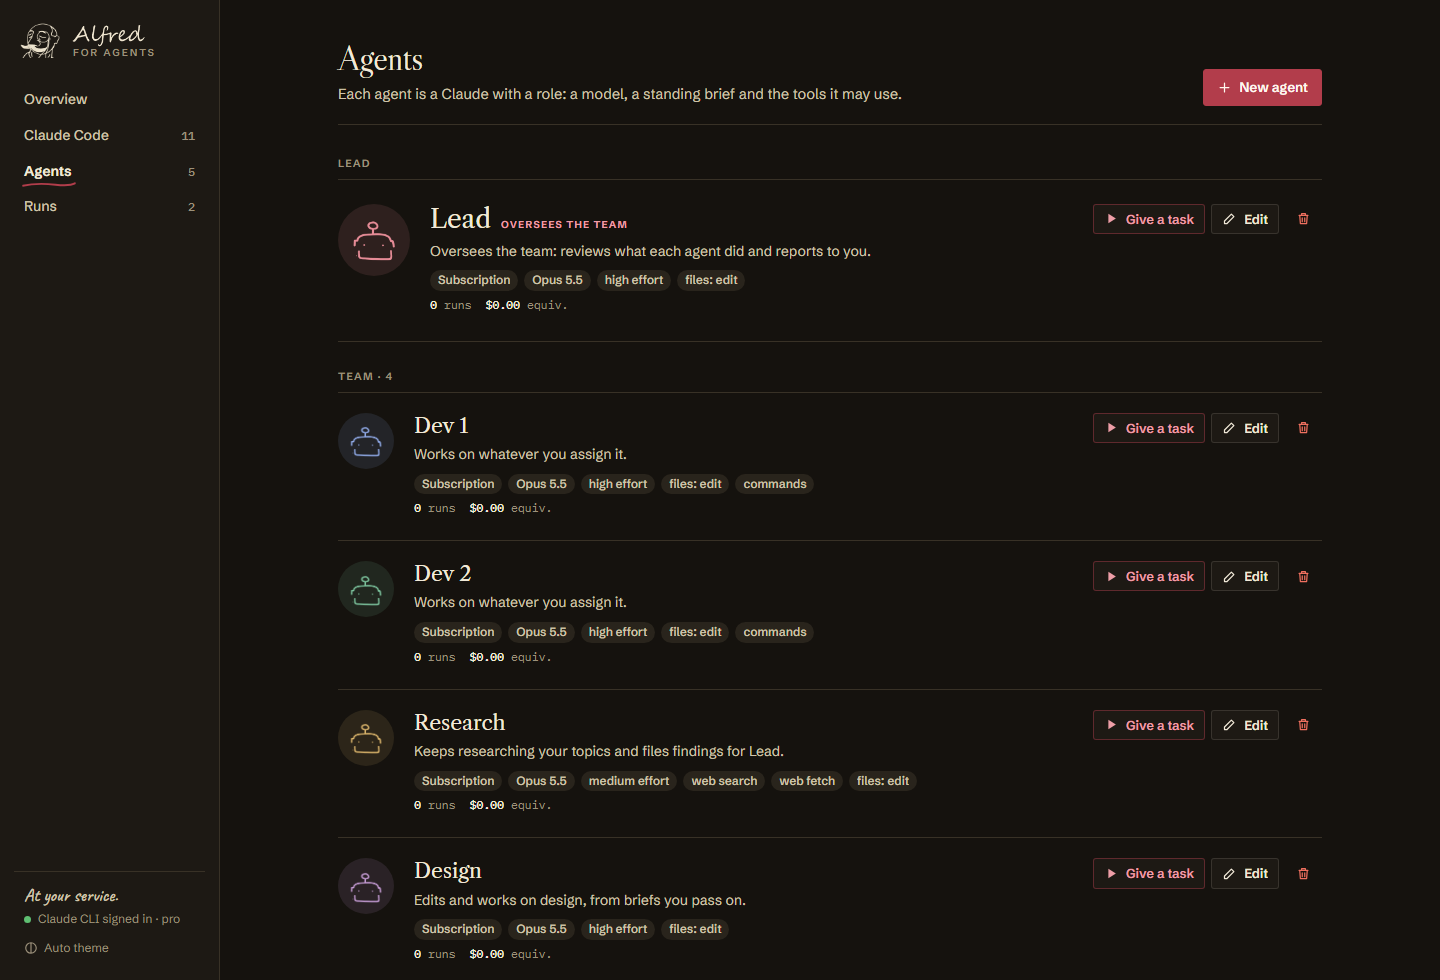
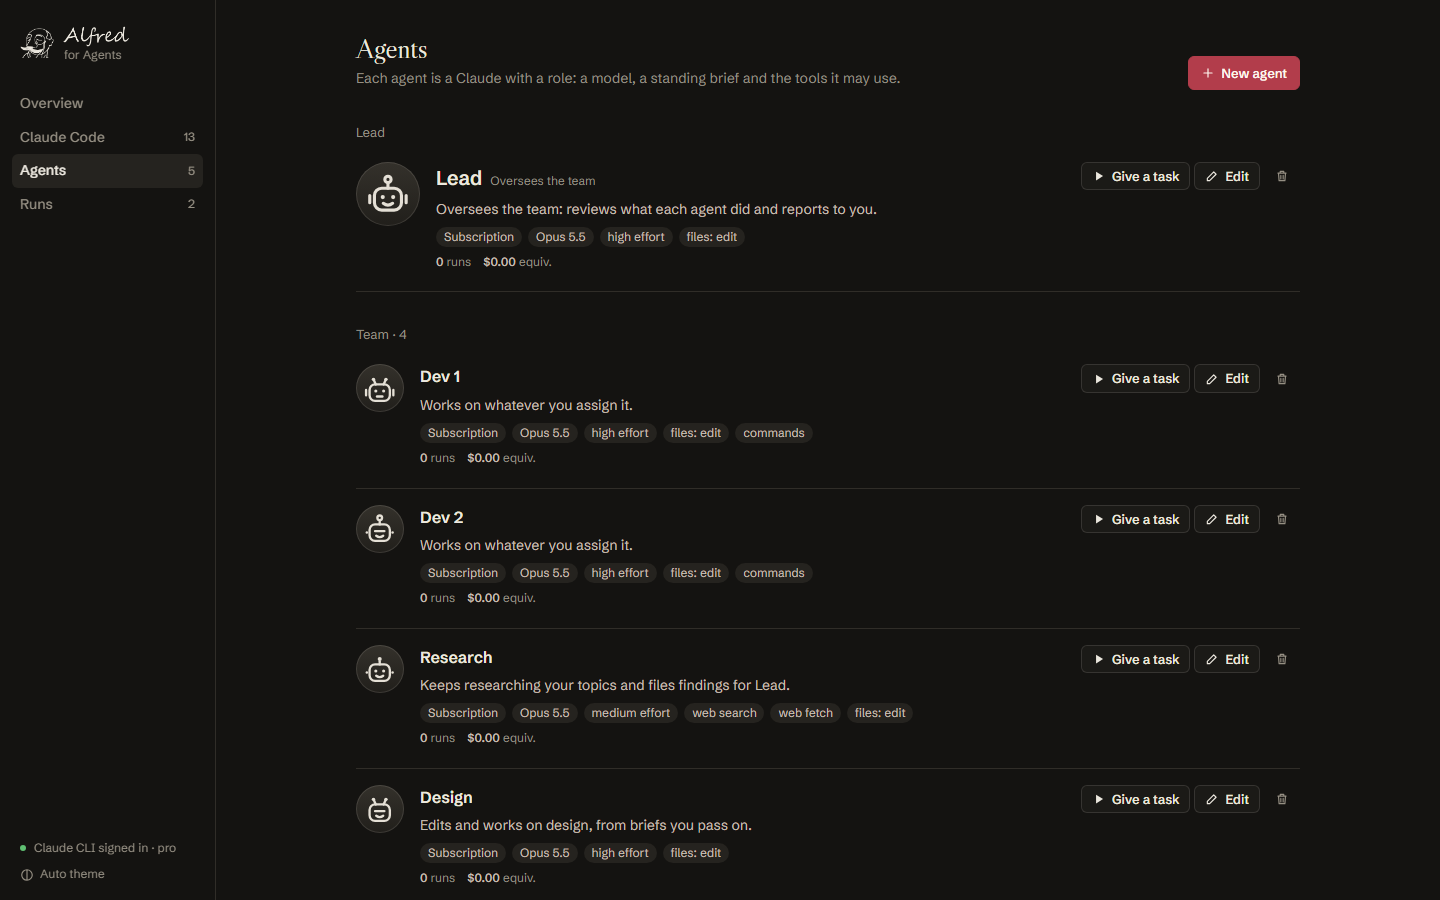
Release 0.3.1
Fresh README screenshots of the geometric-portrait design from #3, README
updates (design, runs, tests folder), and the version bump to 0.3.1.

diff --git a/README.md b/README.md
@@ -42,7 +42,7 @@ Everything stays on your computer. Alfred has no account, server or telemetry of
 Save reusable agents with their own model (Opus, Sonnet, Haiku or Fable), system prompt, effort level and tools. Three starter agents are included: **Researcher**, **Code reviewer** and **Quick helper**.
 
 ### 🔴 Live runs
-Watch a run stream in real time: thinking, tool calls with their results, and the answer with clickable sources. Stop a run, retry it, or keep the conversation going.
+Watch a run stream in real time: thinking, tool calls (grouped, with any failures counted) and the answer with clickable sources. Stop a run, retry it, or keep the conversation going.
 
 </td>
 <td width="50%" valign="top">
@@ -54,7 +54,7 @@ Cost, tokens, prompts and tool calls per day for the last 7, 30 or 90 days. See 
 Alfred gets its own window and a tray icon. When an agent finishes in the background, you get a Windows notification. Alfred can also start with Windows.
 
 ### 🎩 A butler, not a dashboard
-A calm, single-column design built around the hand-drawn Alfred illustration: Caslon headings, a robot portrait for each agent, an overseer agent shown first, and Day and Evening themes.
+A calm, single-column design: clean geometric robot portraits for your agents, a team diagram with your overseer on top, tool calls folded into one tidy row, and Day and Evening themes.
 
 </td>
 </tr>
@@ -209,7 +209,8 @@ alfred-for-agents/
 │   ├── claudeCli.js       Finds the Claude Code CLI and checks sign-in
 │   ├── claudeCode.js      Parses Claude Code session logs
 │   └── pricing.js         Per-model prices for cost estimates
-├── src/                   React UI (Vite)
+├── src/                   React UI (Vite); agent portraits in src/components/Robot.jsx
+├── tests/                 Backend tests (`npm test`)
 ├── assets/alfred.png      The Alfred illustration
 ├── public/art/            Line-art pieces cut from the illustration
 ├── build/                 App and tray icons (made by `npm run icon`)
